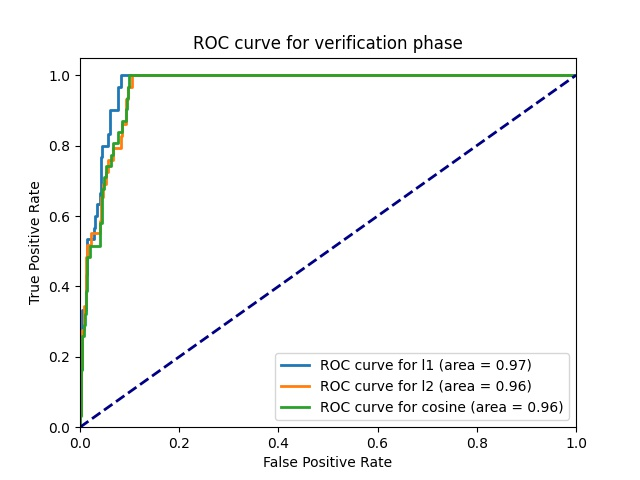
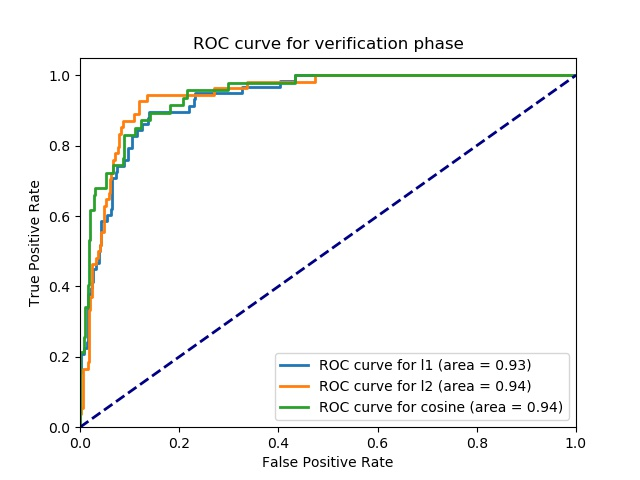
fix typo of m, m1, m2 and update fig 11

diff --git a/PerformanceEvaluation.py b/PerformanceEvaluation.py
@@ -9,21 +9,27 @@ import matplotlib.pyplot as plt
 def calc_crr(y_preds, y_true):
     return [(y_pred == y_true).mean() for y_pred in y_preds]
 
+
 def generate_crr_table(crrs, metrics=DISTANCE_METRICS):
     for i, metric in enumerate(metrics):
         print(f"With {metric} metric, CRR is {crrs[i]}")
 
-def generate_LDA_dimension_CRR_plot(x_train, y_train, x_test, y_test, 
-                                    dimension_arr = list(range(10, 107, 10)) + [107]):
+
+def generate_LDA_dimension_CRR_plot(x_train,
+                                    y_train,
+                                    x_test,
+                                    y_test,
+                                    dimension_arr=list(range(10, 107, 10)) +
+                                    [107]):
     crr_arr = []
     for i in dimension_arr:
-        lda = LinearDiscriminantAnalysis(n_components = i).fit(x_train, y_train)
+        lda = LinearDiscriminantAnalysis(n_components=i).fit(x_train, y_train)
         x_train_lda = lda.transform(x_train)
         x_test_lda = lda.transform(x_test)
         clfs, y_preds = iris_matching(x_train_lda, y_train, x_test_lda)
         crr_cosine = calc_crr(y_preds, y_test)[2]
         crr_arr.append(crr_cosine)
-     
+
     plt.figure()
     plt.plot(dimension_arr, crr_arr)
     plt.xlabel('Dimensionality of the feature vector')
@@ -32,17 +38,20 @@ def generate_LDA_dimension_CRR_plot(x_train, y_train, x_test, y_test,
     plt.savefig('fig10_CRR_dimentionality.jpg')
     #plt.show()
     return crr_arr
-        
+
+
 # use distance to generate ROC curve
 def predict_proba(self, X):
     distances = pairwise_distances(X, self.centroids_, metric=self.metric)
     probs = np.min(distances, axis=1)
     return probs
 
+
 def predict_proba_verification(self, X):
     distances = pairwise_distances(X, self.centroids_, metric=self.metric)
     probs = distances
     return probs
+
 
 def generate_roc_curve(clfs, y_preds, x_test, y_true,
                        metrics=DISTANCE_METRICS):
@@ -67,57 +76,60 @@ def generate_roc_curve(clfs, y_preds, x_test, y_true,
     plt.savefig('ROC_curve.jpg')
     #plt.show()
 
-def calc_fm_fnm(clf, y_pred, x_test, y_true, threshold):
-    # use the cosine distance  
-    score = predict_proba_verification(clf, x_test) #pred_dist
-    match_mtx = score<threshold
+
+def calc_fm_fnm(clf, x_test, y_true, threshold):
+    # use the cosine distance
+    score = predict_proba_verification(clf, x_test)  #pred_dist
+    match_mtx = score < threshold
     fm = 0
     fnm = 0
     TP = 0
     TN = 0
     for i in range(match_mtx.shape[0]):
-        match_y = np.where(match_mtx[i,])[0]+1
-        not_match_y = np.where(match_mtx[i,]==False)[0]+1
-        fm += len(set(match_y) - set([y_true[i]])) #FP
+        match_y = np.where(match_mtx[i, ])[0] + 1
+        not_match_y = np.where(match_mtx[i, ] == False)[0] + 1
+        fm += len(set(match_y) - set([y_true[i]]))  #FP
         #fnm += int(y_true[i] in not_match_y) #FN
-        fnm += len(set(not_match_y)&set([y_true[i]])) #FN
+        fnm += len(set(not_match_y) & set([y_true[i]]))  #FN
         TP += int(y_true[i] in match_y)
         TN += len(set(not_match_y) - set([y_true[i]]))
-    
+
     # FP / (FP + TP)
-    fmr = fm/(fm+TP)
+    fmr = fm / (fm + TP)
     # FN / (FN + TN)
-    fnmr = fnm/(fnm+TN)
-    
+    fnmr = fnm / (fnm + TN)
+
     return fmr, fnmr
 
-def generate_fmr_fnmr_arr(clf, y_pred, x_test, y_true, thresholds):
+
+def generate_fmr_fnmr_arr(clf, x_test, y_true, thresholds):
     fmr_arr = []
     fnmr_arr = []
     for t in thresholds:
-        fmr, fnmr = calc_fm_fnm(clf, y_pred, x_test, y_true, t)
+        fmr, fnmr = calc_fm_fnm(clf, x_test, y_true, t)
         fmr_arr.append(fmr)
         fnmr_arr.append(fnmr)
-    
+
     return fmr_arr, fnmr_arr
 
-def generate_threshold_table(clf, y_pred, x_test, y_true, thresholds):
-    fmr_arr, fnmr_arr = generate_fmr_fnmr_arr(clf, y_pred, x_test, 
-                                              y_true, thresholds)
+
+def generate_threshold_table(clf, x_test, y_true, thresholds):
+    fmr_arr, fnmr_arr = generate_fmr_fnmr_arr(clf, x_test, y_true, thresholds)
     print('========= FMR and FNMR table =========')
-    value_dict = {'Threshold': thresholds,
-                'False match rate': fmr_arr,
-                 'False non-match rate': fnmr_arr}
+    value_dict = {
+        'Threshold': thresholds,
+        'False match rate': fmr_arr,
+        'False non-match rate': fnmr_arr
+    }
     print(pd.DataFrame(value_dict))
-    
-def generate_fm_fnm_curve(clf, y_pred, x_test, y_true, thresholds):
-    fmr_arr, fnmr_arr = generate_fmr_fnmr_arr(clf, y_pred, x_test, 
-                                              y_true, thresholds)
+
+
+def generate_fm_fnm_curve(clf, x_test, y_true, thresholds):
+    fmr_arr, fnmr_arr = generate_fmr_fnmr_arr(clf, x_test, y_true, thresholds)
     plt.figure()
     plt.plot(fmr_arr, fnmr_arr)
     plt.xlabel('False match rate')
     plt.ylabel('False non-match rate')
     plt.title('FMR vs FNMR')
-    plt.xlim(-0.01, 0.12)
     plt.savefig('fig11_13_FM_vs_FNM_curve.jpg')
     plt.show()

diff --git a/IrisRecognition.py b/IrisRecognition.py
@@ -8,7 +8,6 @@ from IrisNormalization import iris_normalization
 from ImageEnhancement import image_enhancement
 from FeatureExtraction import feature_extraction
 from IrisMatching import dimension_reduction, iris_matching
-#from PerformanceEvaluation import generate_roc_curve, calc_crr, generate_crr_table
 from PerformanceEvaluation import *
 
 IMG_PATH = "./CASIA Iris Image Database (version 1.0)/"
@@ -69,22 +68,26 @@ if __name__ == "__main__":
     #reduced feature set
     clfs, y_preds = iris_matching(x_train_lda, y_train, x_test_lda)
     crr = calc_crr(y_preds, y_test)
-    
+
     print('==== Original feature set ====')
     generate_crr_table(crr_ori)
     print('==== Reduced feature set ====')
     generate_crr_table(crr)
-    crr_dict = {'original feature set': crr_ori,
-           'reduced feature set': crr}
+    crr_dict = {'original feature set': crr_ori, 'reduced feature set': crr}
     print('========= CRR table =========')
-    print(pd.DataFrame(crr_dict, index = ['L1', 'L2', 'cosine']))
-    
+    print(pd.DataFrame(crr_dict, index=['L1', 'L2', 'cosine']))
+
     #fig10
-    crr_plot = generate_LDA_dimension_CRR_plot(x_train, y_train, x_test, y_test)
+    crr_plot = generate_LDA_dimension_CRR_plot(x_train, y_train, x_test,
+                                               y_test)
     generate_roc_curve(clfs, y_preds, x_test_lda, y_test)
     # table 4
-    generate_threshold_table(clfs[2], y_preds[2], x_test_lda, y_test, 
-                             thresholds = [1.5e-8, 1e-7, 1.5e-7])
+    generate_threshold_table(clfs[2],
+                             x_test_lda,
+                             y_test,
+                             thresholds=[0.446, 0.472, 0.502])
     # fig 11
-    generate_fm_fnm_curve(clfs[2], y_preds[2], x_test_lda, y_test, 
-                          thresholds = np.arange(1, 10, 0.05)*1e-7)
+    generate_fm_fnm_curve(clfs[2],
+                          x_test_lda,
+                          y_test,
+                          thresholds=np.arange(0.20, 1, 0.02))

diff --git a/FeatureExtraction.py b/FeatureExtraction.py
@@ -16,7 +16,6 @@ def defined_filter(sigma_x, sigma_y, size, f):
 
 
 def feature_extraction(rect_roi):
-    m = 280
     filt1 = defined_filter(3, 1.5, 7, 0.07)
     filt2 = defined_filter(4.5, 1.5, 7, 0.07)
     img_filt1 = ndimage.convolve(rect_roi, filt1, mode='wrap')
@@ -26,10 +25,10 @@ def feature_extraction(rect_roi):
         for j in range(6):
             m1 = abs(img_filt1[j * 8:j * 8 + 8, i * 8:i * 8 + 8]).mean()
             s1 = abs(abs(img_filt1[j * 8:j * 8 + 8, i * 8:i * 8 + 8]) -
-                     m).mean()
+                     m1).mean()
             m2 = abs(img_filt2[j * 8:j * 8 + 8, i * 8:i * 8 + 8]).mean()
             s2 = abs(abs(img_filt2[j * 8:j * 8 + 8, i * 8:i * 8 + 8]) -
-                     m).mean()
+                     m2).mean()
             v.append(m1)
             v.append(s1)
             v.append(m2)

diff --git a/IrisMatching.py b/IrisMatching.py
@@ -8,8 +8,7 @@ DISTANCE_METRICS = ['l1', 'l2', 'cosine']
 
 # use fisher linear discriminant for dimension reduction
 def dimension_reduction(x_train, x_test, y_train):
-    lda = LinearDiscriminantAnalysis(solver='eigen',
-                                     shrinkage='auto').fit(x_train, y_train)
+    lda = LinearDiscriminantAnalysis().fit(x_train, y_train)
     x_train_lda = lda.transform(x_train)
     x_test_lda = lda.transform(x_test)
     return x_train_lda, x_test_lda
@@ -19,5 +18,4 @@ def dimension_reduction(x_train, x_test, y_train):
 def iris_matching(x_train, y_train, x_test, metrics=DISTANCE_METRICS):
     clfs = [NearestCentroid(metric=k).fit(x_train, y_train) for k in metrics]
     y_preds = [clf.predict(x_test) for clf in clfs]
-
     return clfs, y_preds

diff --git a/README.md b/README.md
@@ -11,9 +11,9 @@ Fall 2020 GR5293 Image Analysis: Group Project Iris Recognition
   
 | Metric | Origin feature set | Reduced feature set |
 | :---: | :---: | :---: |
-| L1 | 0.689815  | 0.930556| 
-| L2 |0.657407 | 0.932870 |
-| cosine | 0.666667 | 0.928241 |
+| L1 | 0.708333  | 0.865741| 
+| L2 |0.662037 | 0.875000 |
+| cosine | 0.659722 | 0.891204 |
   
   - CRR vs dimensionality(fig 10)
    <img src="fig10_CRR_dimentionality.jpg" height="300">
@@ -22,9 +22,9 @@ Fall 2020 GR5293 Image Analysis: Group Project Iris Recognition
   
   |Threshold| False match rate | False non-match rate|
   | :---: | :---: | :---: |
-  |1.50e-08    |      0.000000     |   0.009238|
-  |1.00e-07    |      0.000000     |   0.003793|
-  |1.500e-07   |      0.002924     |   0.001965|
+  |0.446    |      0.009804     |   0.002783|
+  |0.472    |      0.015480     |   0.002460|
+  |0.502   |      0.025937     |   0.002030|
   - fig 11/13
   <img src="fig11_13_FM_vs_FNM_curve.jpg" height="300">
   - ROC figure:
@@ -106,19 +106,19 @@ Fall 2020 GR5293 Image Analysis: Group Project Iris Recognition
   - def generate_roc_curve(clfs, y_preds, x_test, y_true, metrics=DISTANCE_METRICS)
     - input: clfs: list of classifiers, y_preds, x_test, y_true, metrics
     - output: the ROC curve
-  - def calc_fm_fnm(clf, y_pred, x_test, y_true, threshold)
-    - input: clf: classifer with cosine distance, y_pred, x_test, y_true, threshold
+  - def calc_fm_fnm(clf, x_test, y_true, threshold)
+    - input: clf: classifer with cosine distance, x_test, y_true, threshold
     - output: the num of fm and fnm given data and threshold
-  - def generate_fmr_fnmr_arr(clf, y_pred, x_test, y_true, thresholds)
-    - input: clf: classifer with cosine distance, y_pred, x_test, y_true, thresholds: list of thresholds
+  - def generate_fmr_fnmr_arr(clf, x_test, y_true, thresholds)
+    - input: clf: classifer with cosine distance, x_test, y_true, thresholds: list of thresholds
     - output: array of fmr and fnmr given thresholds
-  - def generate_threshold_table(clf, y_pred, x_test, y_true, thresholds)
-    - input: clf: classifer with cosine distance, y_pred, x_test, y_true, thresholds: list of thresholds
+  - def generate_threshold_table(clf, x_test, y_true, thresholds)
+    - input: clf: classifer with cosine distance, x_test, y_true, thresholds: list of thresholds
     - output: table of fmr and fnmr with given thresholds
     - step 1: generate the fmr and fnmr array from given data
     - step 2: print the table
-  - def generate_fm_fnm_curve(clf, y_pred, x_test, y_true, thresholds)
-    - input: clf: classifer with cosine distance, y_pred, x_test, y_true, thresholds: list of thresholds
+  - def generate_fm_fnm_curve(clf, x_test, y_true, thresholds)
+    - input: clf: classifer with cosine distance, x_test, y_true, thresholds: list of thresholds
     - output: table of fmr and fnmr with given thresholds
     - step 1: generate the fmr and fnmr array from given data
     - step 2: plot the curve
